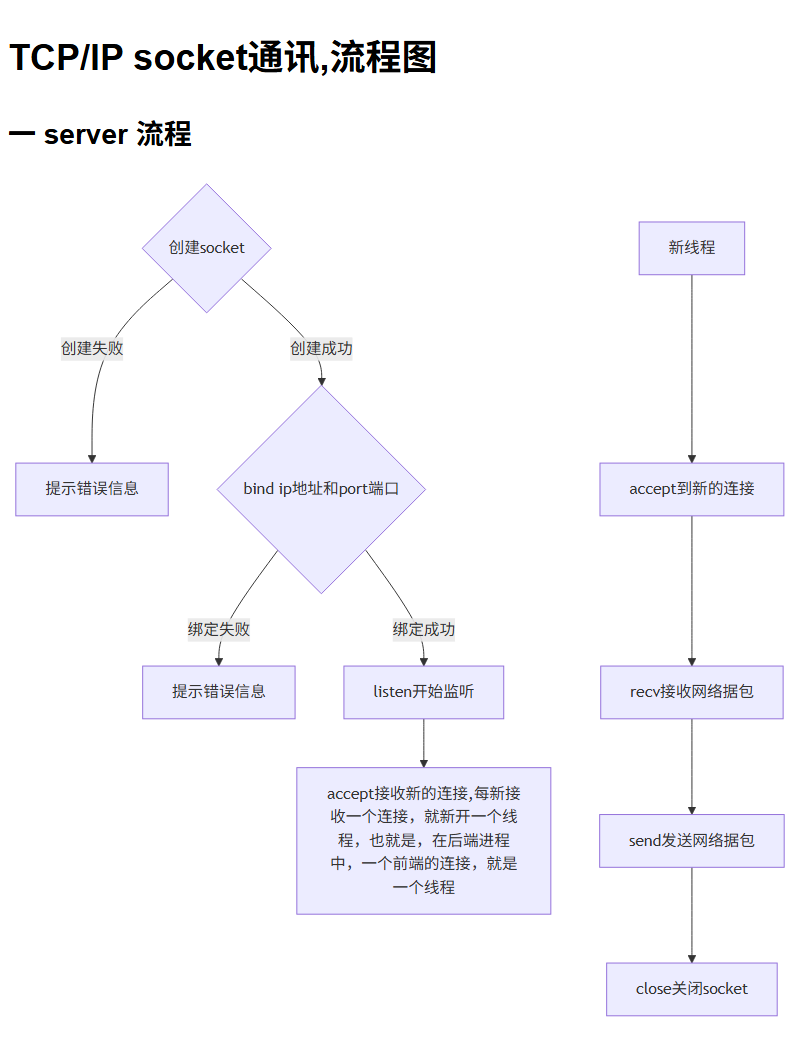
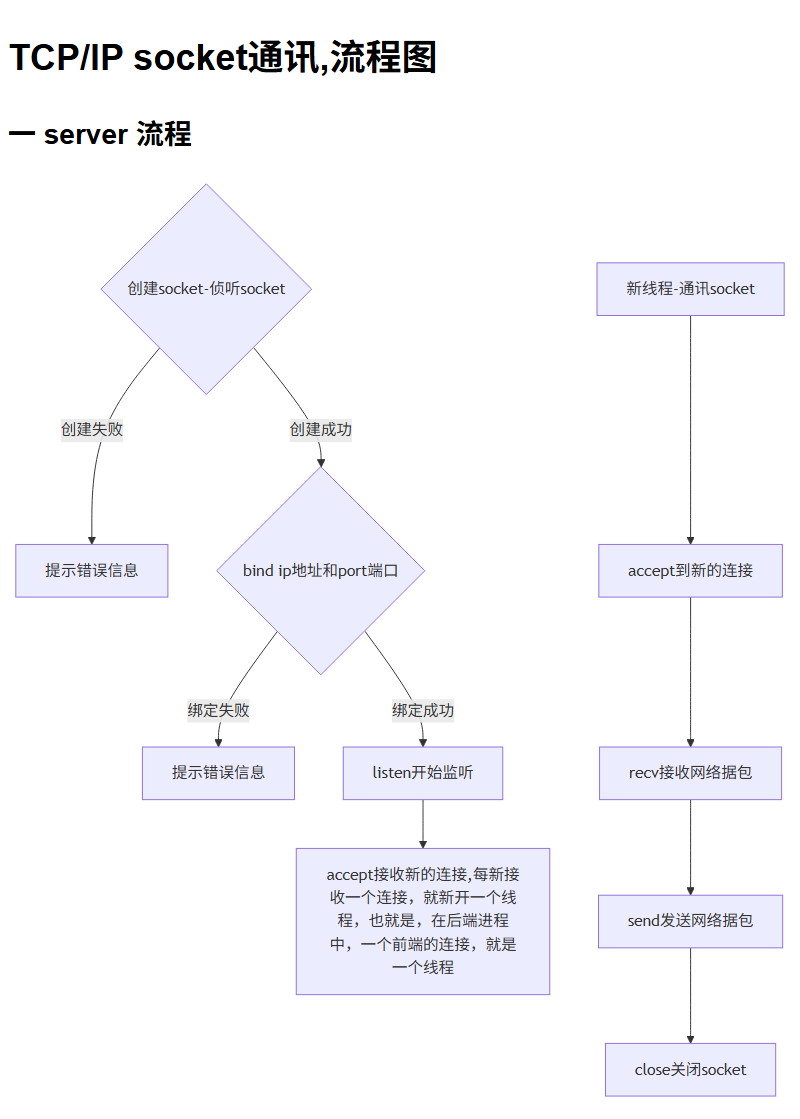
modify

diff --git a/flowchart_socket_server1.md b/flowchart_socket_server1.md
@@ -5,7 +5,7 @@
 ```mermaid
 graph TD
 
-    create{创建socket} -->|创建失败| create_socker_error[提示错误信息]
+    create{创建socket-侦听socket} -->|创建失败| create_socker_error[提示错误信息]
     create -->|创建成功| bind{bind ip地址和port端口}
 
     bind -->|绑定失败| bind_ip_error[提示错误信息]
@@ -13,7 +13,7 @@ graph TD
 
     listen --> accept[accept接收新的连接,每新接收一个连接，就新开一个线程，也就是，在后端进程中，一个前端的连接，就是一个线程]
 
-    new_thread[新线程] --> new_socket[accept到新的连接]
+    new_thread[新线程-通讯socket] --> new_socket[accept到新的连接]
     new_socket --> recv[recv接收网络据包]
     recv[recv接收网络据包] --> send[send发送网络据包]
     send --> close[close关闭socket]
